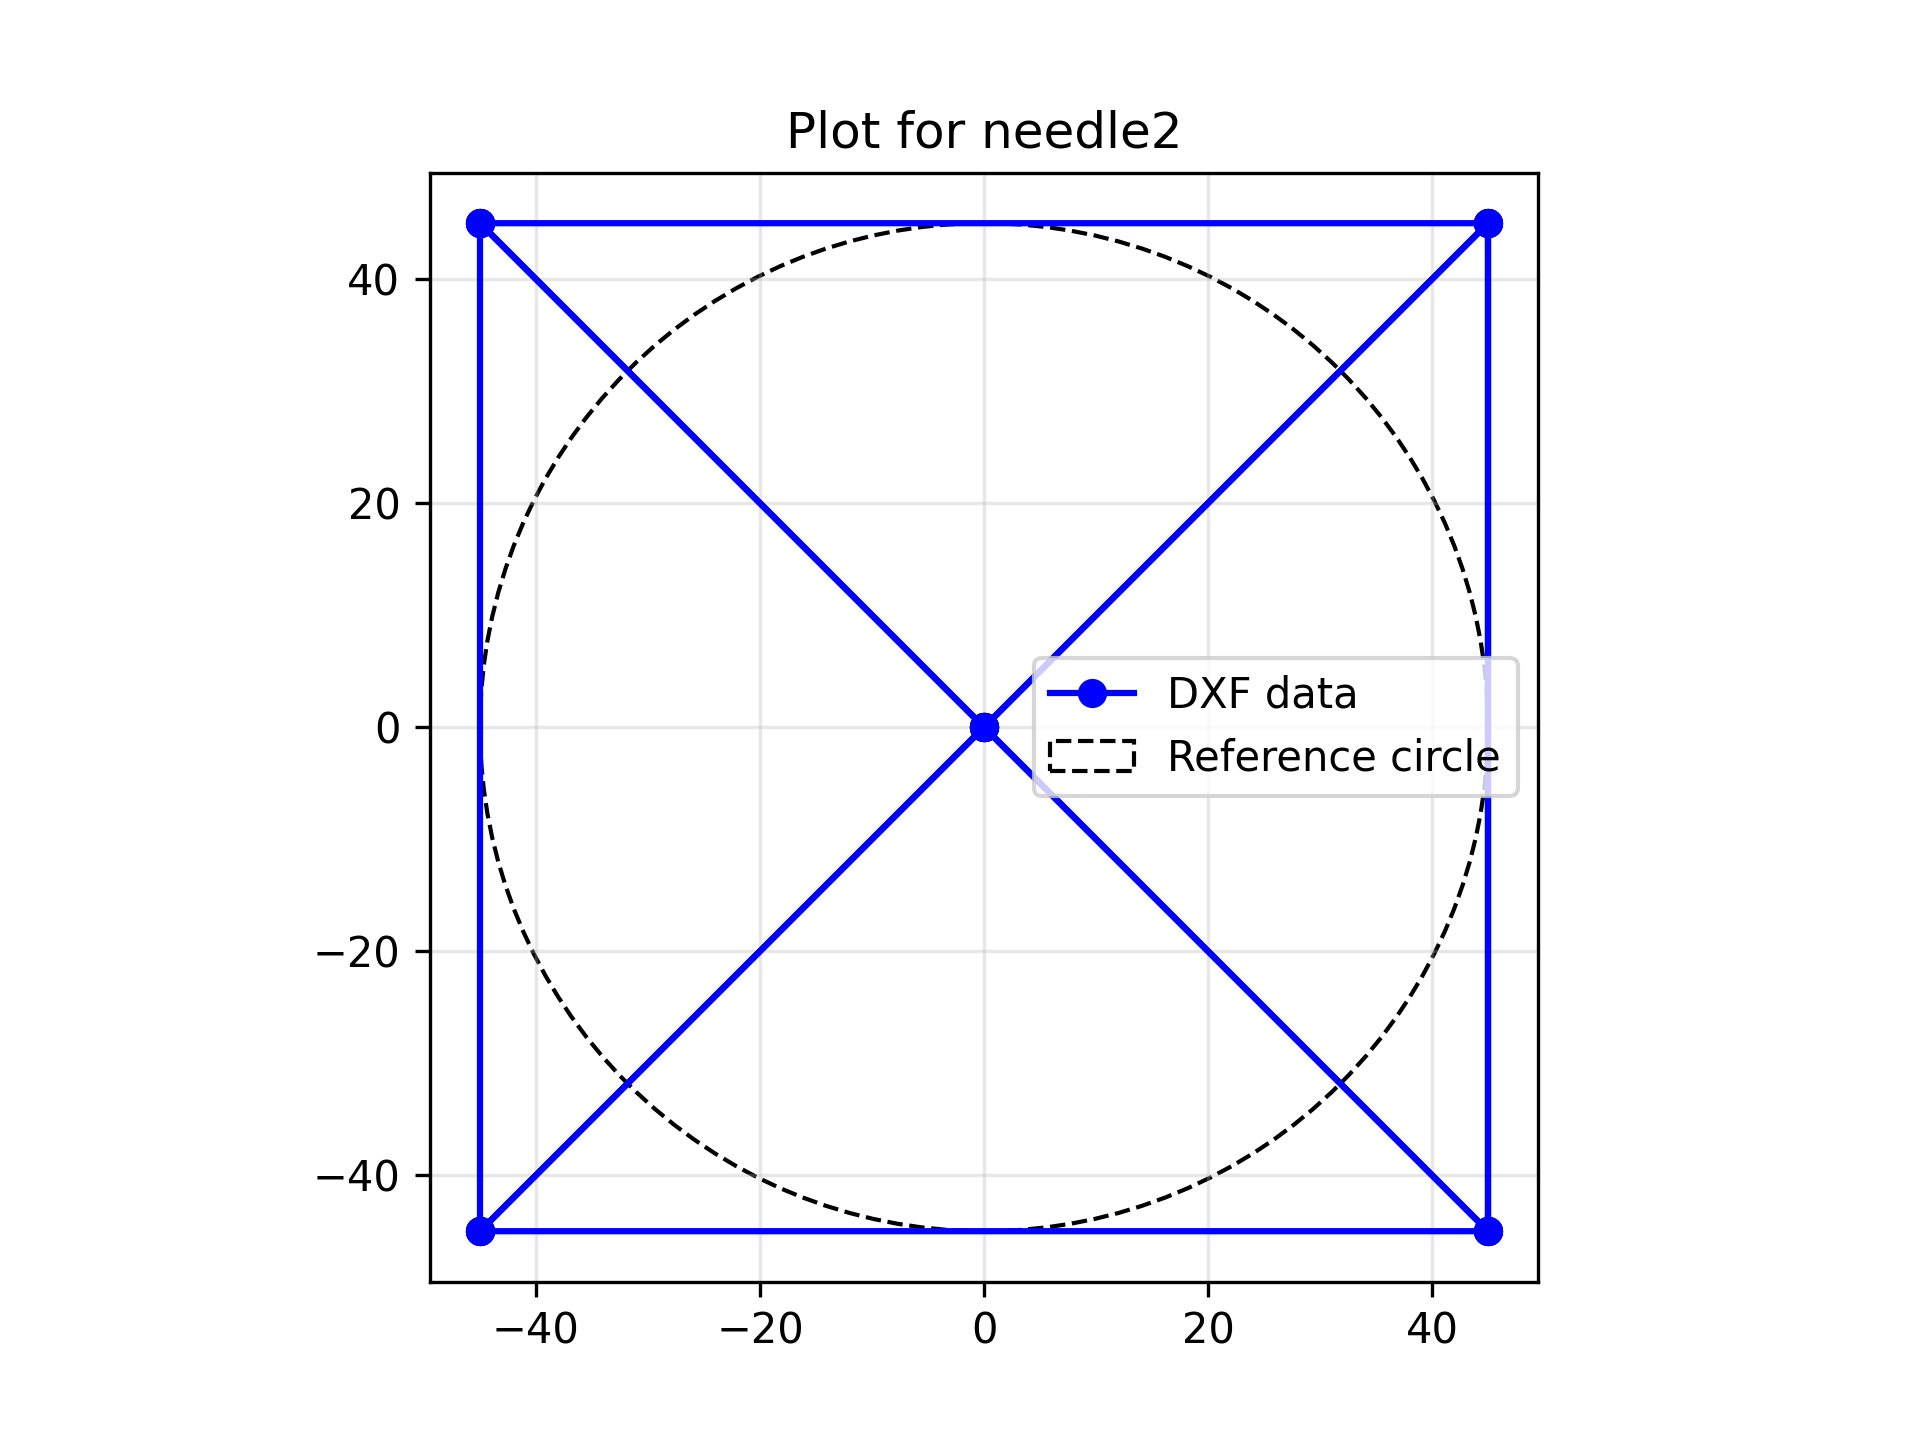
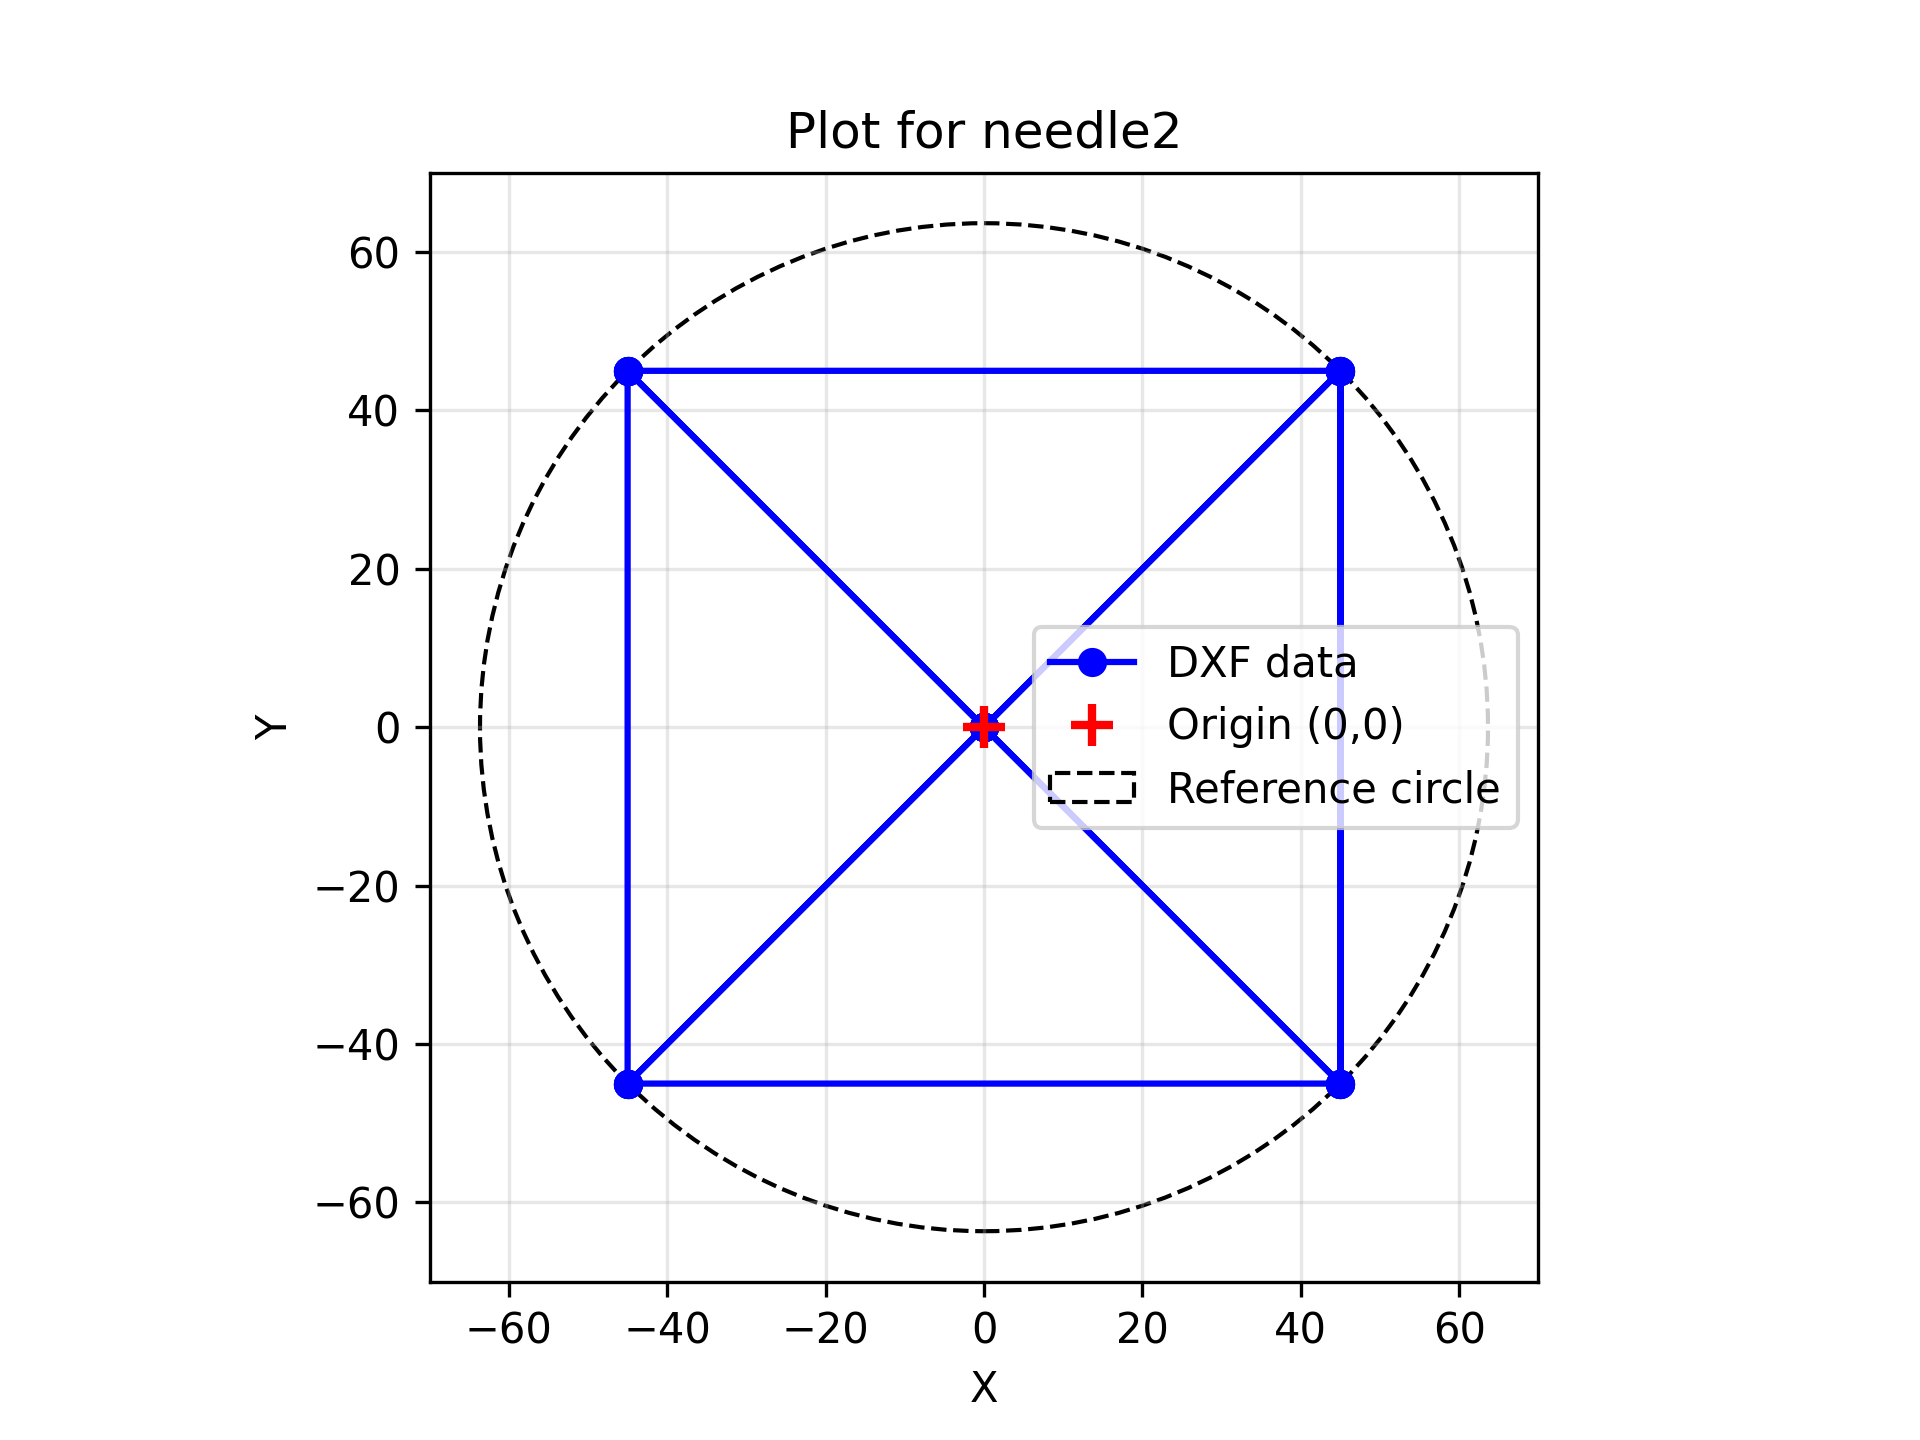
Added gitignore. Tried to rotate the figures to be better observable.

diff --git a/plotting.py b/plotting.py
@@ -3,6 +3,7 @@ import numpy as np
 import ezdxf as dxf
 import os
 import sys
+from sklearn.decomposition import PCA
 
 class PLOT:
     def __init__(self, dxf_path, BASE_DIR):
@@ -27,7 +28,7 @@ class PLOT:
                 print(f"Invalid or corrupted DXF file.")
                 sys.exit(2)
 
-    def to_array(self):
+    def to_array(self, center_at_origin=True):
         for i, doc in enumerate(self.files):
             coords = []
             msp = doc.modelspace()
@@ -40,33 +41,65 @@ class PLOT:
                 elif entity.dxftype() in ("LWPOLYLINE", "POLYLINE"):
                     for v in entity.get_points():
                         coords.append([v[0], v[1]])
+
+            if center_at_origin and coords:
+                coords = np.array(coords)
+                # Calculate the centroid (mean of all points)
+                centroid = np.mean(coords, axis=0)
+                # Subtract centroid from all points to center at (0, 0)
+                coords = coords - centroid
+                coords = coords.tolist()
+
             self.coordinates[f"needle{i+1}"] = coords
     
 
     def plot_figures(self):
 
         for name, coords in self.coordinates.items():
+            if not coords:
+                print(f"No coordinates found for {name}, skipping...")
+                continue
+
             coords = np.array(coords)
+
+            rotate_figure(coords)
 
             figure, axes = plt.subplots()
 
             axes.plot(coords[:, 0], coords[:, 1], "bo-", label="DXF data")
 
-            circle = plt.Circle( (0, 0), max(coords[:, 0]) , fill = False, linestyle="--", label="Reference circle")
-            axes.add_patch(circle)
+            axes.plot(0, 0, 'r+', markersize=10, markeredgewidth=2, label="Origin (0,0)")
 
+            distances = np.sqrt(coords[:, 0]**2 + coords[:, 1]**2)
+            radius = np.max(distances)
+            circle = plt.Circle( (0, 0), radius , fill = False, linestyle="--", label="Reference circle")
+
+            axes.add_patch(circle)
             axes.set_aspect("equal", adjustable="box")
             axes.set_title(f"Plot for {name}")
             axes.legend()
             axes.grid(True, alpha=0.3)
+
+            axes.set_xlabel("X")
+            axes.set_ylabel("Y")
 
             figure.savefig(os.path.join(self.img_folder, f"{name}.png"), dpi=300)
             print(f"SAVED {name}.png")
 
             plt.show()
             plt.close(figure)
+
+
            
-        
+def rotate_figure(coords): # Rotates the figure to be horizontally based on the biggest legthwise difference
+    print("111")
+    pca = PCA(n_components=2)
+    pca.fit(coords)
+
+    axes = pca.components_
+
+    rotated = coords.dot(axes.T)
+    return rotated
     
 
 
